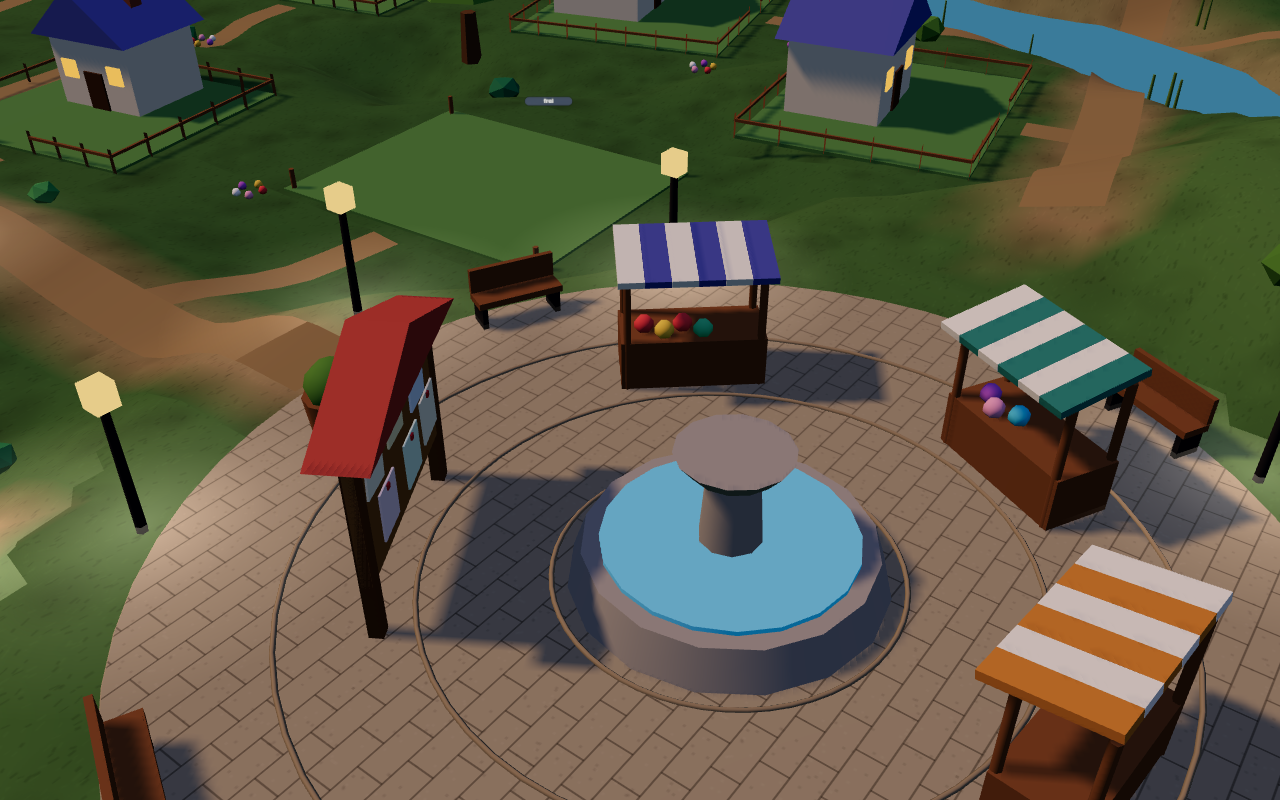
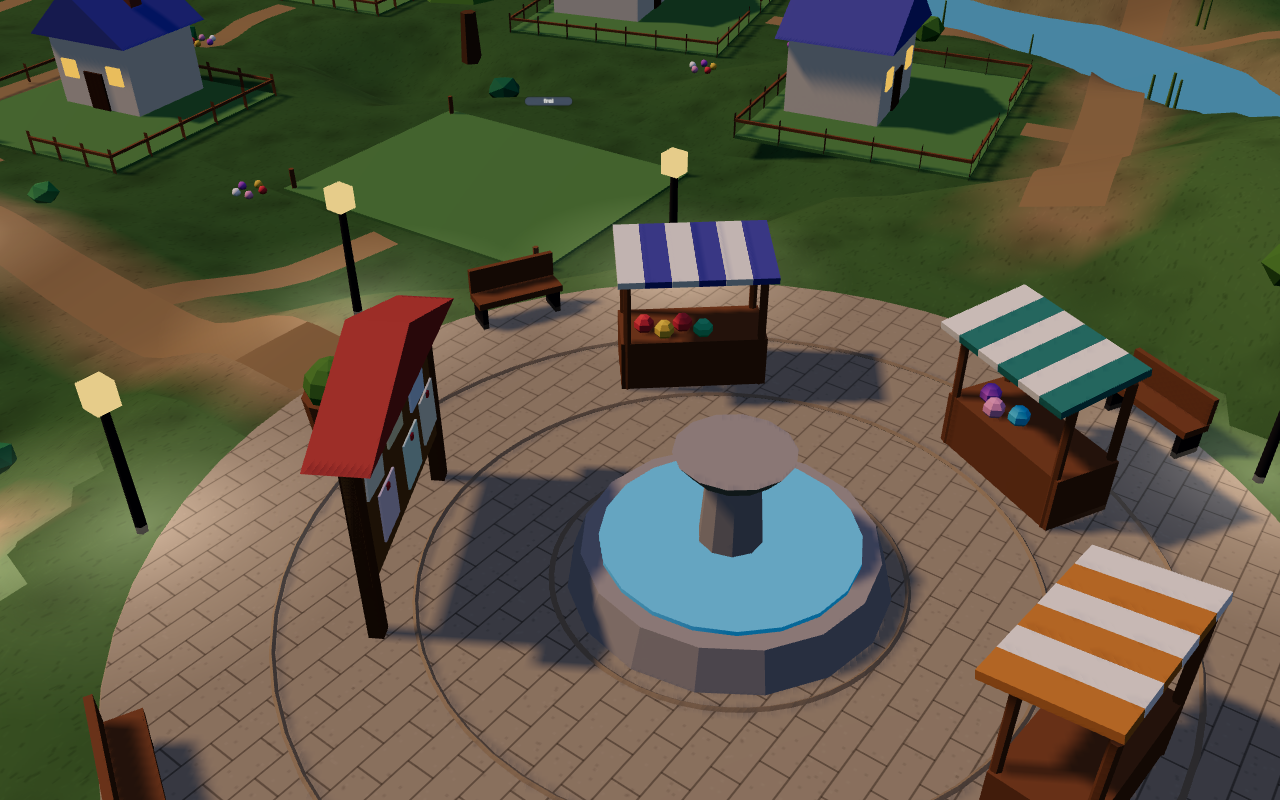
L.9: Draw Calls der Welt unter 60, Figuren zusammengefasst
- render/merge.ts: statische Szenerie je Materialart zu wenigen Meshes; Texturen, Wasser, Instancing, Schilder und Tafel bleiben getrennt
- render/crowd.ts: eine Mesh je Figur; Winken als Hüpfen
- Galerie tal Übersicht: 102 Draw Calls gesamt, Welt ~50
- 235 Vitest-Tests grün

diff --git a/web/src/render/merge.ts b/web/src/render/merge.ts
@@ -1,0 +1,71 @@
+/**
+ * Performance (PLAN L.9, SPEC §10.11): static scenery is merged into a few meshes, one per material
+ * kind. Textured surfaces (ground, paths, paving), water, instanced meshes, sprites and anything
+ * with a click role (userData.kind) stay as they are.
+ */
+import * as THREE from 'three';
+import { mergeGeometries } from 'three/addons/utils/BufferGeometryUtils.js';
+
+function isBakeable(mesh: THREE.Mesh): boolean {
+  if (mesh instanceof THREE.InstancedMesh) return false;
+  if (mesh.userData.kind) return false;
+  const m = mesh.material;
+  if (Array.isArray(m)) return false;
+  const std = m as THREE.MeshStandardMaterial;
+  if (std.map) return false; // textured: keep the texture
+  if (std.transparent) return false;
+  if (std.emissive && std.emissive.getHex() !== 0) return false; // water and other glowing surfaces
+  return m instanceof THREE.MeshStandardMaterial || m instanceof THREE.MeshBasicMaterial;
+}
+
+/** Geometry of one mesh in root space, with its colour as a vertex attribute. */
+function bakedGeometry(mesh: THREE.Mesh): THREE.BufferGeometry {
+  const geo = mesh.geometry.index ? mesh.geometry.toNonIndexed() : mesh.geometry.clone();
+  for (const k of Object.keys(geo.attributes)) {
+    if (k !== 'position' && k !== 'normal') geo.deleteAttribute(k);
+  }
+  if (!geo.attributes.normal) geo.computeVertexNormals();
+  mesh.updateWorldMatrix(true, false);
+  geo.applyMatrix4(mesh.matrixWorld);
+  const colour = (mesh.material as THREE.MeshStandardMaterial).color ?? new THREE.Color('#ffffff');
+  const count = geo.attributes.position.count;
+  const col = new Float32Array(count * 3);
+  for (let i = 0; i < count; i++) {
+    col[i * 3] = colour.r;
+    col[i * 3 + 1] = colour.g;
+    col[i * 3 + 2] = colour.b;
+  }
+  geo.setAttribute('color', new THREE.BufferAttribute(col, 3));
+  return geo;
+}
+
+/**
+ * Merges the static meshes under `root` into one lit and one unlit mesh (plus the untouched rest).
+ * Returns the same root, so the caller keeps its references.
+ */
+export function bakeStatic(root: THREE.Group): THREE.Group {
+  const toBake: THREE.Mesh[] = [];
+  root.traverse((o) => {
+    if (o instanceof THREE.Mesh && isBakeable(o)) toBake.push(o);
+  });
+  const lit: THREE.BufferGeometry[] = [];
+  const unlit: THREE.BufferGeometry[] = [];
+  for (const mesh of toBake) {
+    const basic = mesh.material instanceof THREE.MeshBasicMaterial;
+    (basic ? unlit : lit).push(bakedGeometry(mesh));
+    mesh.parent?.remove(mesh);
+  }
+  if (lit.length > 0) {
+    const mesh = new THREE.Mesh(
+      mergeGeometries(lit),
+      new THREE.MeshStandardMaterial({ vertexColors: true, flatShading: true, roughness: 0.85 }),
+    );
+    mesh.castShadow = true;
+    mesh.receiveShadow = true;
+    root.add(mesh);
+  }
+  if (unlit.length > 0) {
+    root.add(new THREE.Mesh(mergeGeometries(unlit), new THREE.MeshBasicMaterial({ vertexColors: true })));
+  }
+  return root;
+}

diff --git a/web/src/render/crowd.ts b/web/src/render/crowd.ts
@@ -4,6 +4,7 @@
  * Placeholder models (boxes and spheres). Real animated figures come in Stufe 2.
  */
 import * as THREE from 'three';
+import { bakeStatic } from './merge';
 import { createRng, type Rng } from '../world/rng';
 import type { Layout } from '../world/layout';
 import { walkHeight } from '../world/walk';
@@ -107,7 +108,7 @@ function buildFigure(nickname: string, own: boolean): THREE.Group {
     arrow.rotation.x = Math.PI;
     g.add(arrow);
   }
-  return g;
+  return bakeStatic(g);
 }
 
 /** Speech bubble with one fixed greeting, shown for a short time. */
@@ -194,6 +195,7 @@ export class Crowd {
         v.walker.advance(dt);
         const p = v.walker.position();
         v.group.position.set(p.x, walkHeight(this.layout, p), p.z);
+        v.group.userData.baseY = v.group.position.y;
         v.group.rotation.y = p.heading;
         if (v.walker.done) {
           const last = this.lastNodeOf(v);
@@ -218,6 +220,7 @@ export class Crowd {
 
   private placeAt(v: Villager, node: { x: number; z: number }): void {
     v.group.position.set(node.x, walkHeight(this.layout, node), node.z);
+    v.group.userData.baseY = v.group.position.y;
   }
 
   private lastNodeOf(v: Villager): number {
@@ -239,10 +242,10 @@ export class Crowd {
     }
   }
 
+  /** Waving: the figure hops on the spot (the arms are merged into the body, see bakeStatic). */
   private animateArm(v: Villager): void {
-    const arm = v.group.getObjectByName('armR');
-    if (!arm) return;
-    arm.rotation.x = v.waveTimer > 0 ? -2.2 + Math.sin(this.clock * 12) * 0.4 : 0;
+    const hop = v.waveTimer > 0 ? Math.abs(Math.sin(this.clock * 9)) * 0.18 : 0;
+    v.group.position.y = ((v.group.userData.baseY as number | undefined) ?? v.group.position.y) + hop;
   }
 
   /** Two villagers close to each other: one of them says a fixed greeting. */

diff --git a/web/src/render/village.ts b/web/src/render/village.ts
@@ -10,6 +10,7 @@ import { laneDistance } from '../world/scatter';
 import { buildNature, buildVegetation } from './nature';
 import { buildPlaza } from './plaza';
 import { buildBridge } from './bridges';
+import { bakeStatic } from './merge';
 import { dirtTexture, grassTexture } from './textures';
 import { chimney, fenceGeometry, gableRoof, gardenPathGeometry } from './house';
 import { mergeGeometries } from 'three/addons/utils/BufferGeometryUtils.js';
@@ -307,5 +308,5 @@ export function buildVillage(
   root.add(gardenMesh);
   root.add(buildNature(layout));
   root.add(buildVegetation(layout));
-  return root;
+  return bakeStatic(root);
 }

diff --git a/docs/PLAN.md b/docs/PLAN.md
@@ -60,7 +60,7 @@ Ziel: 8a und 8b sind sauber getrennte Instanzen (SPEC §1a), und das Dorf sieht 
 | [ ] L.6 | CC | **Vegetation und Details**: Poisson-Disk-Verteilung, Waldgürtel, Baumgruppen, Büsche, Hecken, Blumenwiesen, Felsen, Schilf; Mengen nach SPEC §10.6 | `world/scatter.ts`, `render/nature.ts` (InstancedMesh) | Vitest „nichts auf Wegen/Plätzen/Grundstücken/Wasser“, Mengen im Rahmen (Befund 1) |
 | [ ] L.7 | CC | **Marktplatz und Licht**: Pflaster mit Ringmuster, Brunnen, Aufgabentafel zum Hauptzugang, 3 Stände, 4 Bänke, Kübel, Laternen an Wegen, leuchtende Fenster, Lichtflecken, Abendstimmung wie Prototyp | `render/plaza.ts`, `render/lights.ts` | Galerie-Bild Marktplatz vergleichbar mit Prototyp (Befunde 2, 3) |
 | [ ] L.8 | CC | **Namen und Figuren**: keine Schilder an fremden Häusern, Figuren-Schilder ab ~30 m ausblenden, Name beim Antippen; Ziele der Figuren gleichmäßiger verteilen (Wahrzeichen, Häuser von Freunden), max. 3 an der Tafel | `render/crowd.ts`, `avatars/behaviour.ts` | Galerie-Übersicht ruhig lesbar; < 40 % der Figuren gleichzeitig am Platz (Befunde 12, 14) |
-| [ ] L.9 | CC | **Leistung**: statische Szenerie je Material zusammenfassen, Instancing für Wiederholtes; Draw Calls und Dreiecke in der Galerie protokollieren | `render/merge.ts` | Welt < 60 Draw Calls, gesamt mit 32 Figuren < 150 (Befund 13) |
+| [x] L.9 | CC | **Leistung**: statische Szenerie je Material zusammenfassen, Instancing für Wiederholtes; Draw Calls und Dreiecke in der Galerie protokollieren | `render/merge.ts` | Welt < 60 Draw Calls, gesamt mit 32 Figuren < 150 (Befund 13) |
 | [ ] L.10 | CC | Galerie neu erzeugen, Soll/Ist nebeneinander (wie `Konzept/Stil_Referenz/`), Befundliste im Review und Fehlerliste LOOK §11 abhaken | `Konzept/Galerie/<datum>/`, `docs/REVIEW_…` | alle 14 Befunde erledigt oder begründet |
 | [ ] L.11 | LK | **Abnahme Layout** anhand der Galerie und kurz auf dem Tablet (Bildrate) | Notiz hier | Layout freigegeben |
 
@@ -216,3 +216,5 @@ Ziel: Schüler kaufen Deko und gestalten ihr Grundstück; Mitschüler sehen es.
 | 17.10.2026 | L.5 freie Plätze | Ohne Bewohner: Rasenfläche mit vier Holzpflöcken und kleinem Schild „frei“, kein Haus und kein Zaun (`freeLot` in `render/village.ts`). Offen: Pflanzen auf freien Plätzen (L.6), Böschung an Hängen |
 | 17.10.2026 | L.6 teilweise | Büsche, Felsen (halb eingesunken), Schilf am Ufer (4–6 m vom Wasser) und Blumenbüschel an den Grundstücksrändern als Instancing (`world/scatter.ts`, `render/nature.ts`). Vitest: nichts auf Wegen, Wasser; Schilf am Ufer. Offen: Hecken an Wegen, Blumenwiesen als Flecken, Wahrzeichen, Mengen nach SPEC §10.6 prüfen |
 | 17.10.2026 | Galerie | Übersicht `tal` jetzt 486 Draw Calls (Welt 320). L.9 muss das deutlich senken |
+| 17.10.2026 | L.9 Leistung | `render/merge.ts`: statische Szenerie (Häuser, Zäune, Dächer, Platz-Möbel, Brücken, Fenster) je Materialart zu wenigen Meshes zusammengefasst. Texturierte Flächen, Wasser, Instancing, Schilder und die Tafel bleiben getrennt. Figuren als ein Mesh je Figur (Winken als Hüpfen statt Armschwung). Galerie `tal` Übersicht: 102 Draw Calls gesamt, Welt ~50 (Ziel < 60). Mit 32 Figuren geschätzt ~120 (Ziel < 150). Am Tablet noch zu prüfen (L.11) |
+| 17.10.2026 | Brücken | `render/bridges.ts`: gewölbtes Deck (0,8 m Bogen), schlanke Handläufe mit Pfosten. Die flachen Kästen entfallen |
